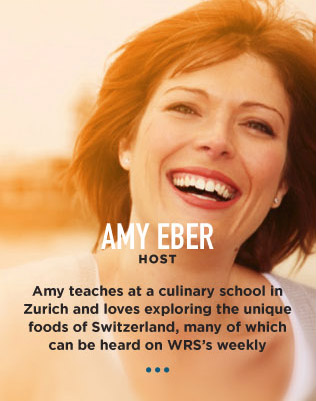
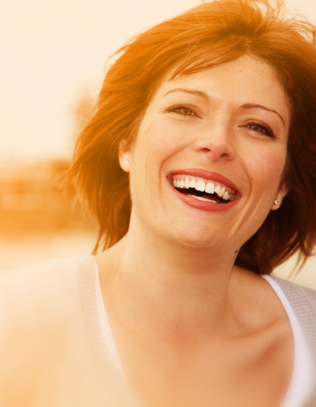
update programme page

diff --git a/Programme_05.css b/Programme_05.css
@@ -268,7 +268,7 @@ background-color:#FDF9B0;
 {
 float:left;
 text-decoration:none;
-margin-left:100px;
+margin-left:194px;
 
 }
 .sub-menu ul li
@@ -305,9 +305,9 @@ height:32px;
 {
 float:left;
 text-decoration:none;
-margin-left:100px;
-
+margin-left:194px;
 }
+
 .sub-menu1 ul li
 {
 display:block;
@@ -375,10 +375,11 @@ position:relative;
 float:left;
 width:310px;
 }
-.right-center-content
+.right-center-content img
 {
 float:right;
 width:310px;
+height:152px;
 }
 
 
@@ -1607,3 +1608,169 @@ color: #1f1f1f;
     -o-transition: all .3s linear;
     transition: all .3s linear;**/
   }
+
+/* Brahminder Singh */
+
+
+#upper {
+  border:red solid thin none;
+  width:944px;
+  height:500px
+}
+
+#text-food {
+ width:944px;
+ height:55px;
+ border:#000000 solid thin none;
+ font-family:GOTHAMbold;
+ font-size:30px;
+ margin-top:25px; 
+}
+
+#image-wrapper {
+  border:green solid thin none;
+  width:944px;
+  height:417px;
+}
+
+#image-left {
+  border:red solid thin none;
+  width:630px;
+  height:417px;
+  float:left;
+  position:relative;
+}
+
+#lft-i {
+  
+  width:630px;
+  height:410px;
+  margin-top:4px;
+  position:relative;
+}
+
+#lft-i img
+{
+ width:630px;
+  height:410px;
+  }
+  
+#on-image {
+  border:red solid thin none;
+  width:600px;
+  height:260px;
+  position:absolute;
+  top:130px;
+  left:17px;
+}
+
+#on-img-one {
+  border: thin solid blue none;
+    color: WHITE;
+    font-family: GOTHAMbold;
+    font-size: 50px;
+    height: 73px;
+    padding: 12px 0 0;
+    text-align: center;
+    width: 600px;
+} 
+
+#on-img-two {
+   border: thin solid blue none;
+    font-family: GOTHAMbold;
+    font-size: 18px;
+    height: 28px;
+    padding-top: 4px;
+    text-align: center;
+    width: 600px;
+	}
+
+#on-img-three {
+   border: thin solid blue none;
+    font-family: GOTHAMbook;
+    font-size: 20px;
+    font-weight: bold;
+    height: 24px;
+    padding-top: 6px;
+    text-align: center;
+    width: 600px;
+}   
+
+#on-img-four {
+   border: thin solid blue none;
+    color: red;
+    font-family: GOTHAMbook;
+    font-size: 16px;
+    font-weight: bold;
+    height: 40px;
+    padding-top: 6px;
+    text-align: center;
+    width: 600px;
+}   
+  
+#image-right {
+  border:red solid thin none;
+  width:298px;
+  height:417px;
+  float:right;
+}
+
+#rgt-i {
+ 
+  width:298px;
+  height:410px;
+  margin-top:4px;
+}
+
+#rgt-i img {
+  width:298px;
+  height:410px;
+}
+
+#on-r-img {
+ 
+  width:248px;
+  height:190px;
+  position:absolute;
+  top:550px;
+  right:228px;
+}
+
+#on-r-img-one {
+    color: white;
+    font-family: GOTHAMbook;
+    font-size: 29px;
+    height: 31px;
+    padding-top: 10px;
+    text-align: center;
+    width: 248px;
+	font-weight:bold;
+	}
+	
+	
+	
+	#on-r-img-two {
+    font-family: GOTHAMbook;
+    font-size: 16px;
+    height: 20px;
+    text-align: center;
+    width: 248px;
+	font-weight:bold;
+	}
+	
+#on-r-img-three {
+    font-family: GOTHAMbook;
+    font-size: 15px;
+    font-weight: bold;
+    margin-top: 5px;
+    text-align: center;
+}
+
+
+#on-r-img-four {
+   border: thin solid red;
+    height: 20px;
+    margin-left: 90px;
+    margin-top: 7px;
+    width: 48px;
+}

diff --git a/Programme_05.html b/Programme_05.html
@@ -92,15 +92,73 @@
 			</div>
   <div class="main-region">
     <div id="main-content">
-     <div class ="main">
-						 <div class ="left-main">
-							  <h1>FOOD SCOUT</h1>
-							  <img src="images/Food_06.jpg">
+    	<div id="upper">
+			<div id="text-food">
+			<h2>FOOD SCOUT</h2>
+			</div>
+									
+			<div id="image-wrapper">
+				<div id="image-left">
+					<div id="lft-i">
+					<img src="images/I_FoodScout.jpg"/>
+					</div>
+					
+					<div id="on-image">
+						<div id="on-img-one">
+						FOOD SCOUT
 						</div>
-								  <div class ="right-main">
-								  <img src="images/IV_FoodScout.jpg">
+						
+						<div id="on-img-two">
+						GOURMAND AMY EBER IS ON THE SWISS FOOD TRAIL
+						</div>
+						
+						<div id="on-img-three">
+						EVERY THURSDAY | 5:40 PM | THE WRAP
+						</div>
+						
+						<div id="on-img-four">
+						REPEATS FRIDAYS | 1:40 PM | THE MIX
+						</div>
+					</div>
+				</div>
+				
+				<div id="image-right">
+					<div id="rgt-i">
+					<img src="images/IV_FoodScout.jpg"/>
+					</div>
+					
+					<div id="on-r-img">
+						<div id="on-r-img-one">
+						AMY EBER
+						</div>
+						
+						<div id="on-r-img-two">
+						HOST
+						</div>
+						
+						<div id="on-r-img-three">
+						Amy Teaches at a culinary school min Zurich and loves exploring the unique foods in switzerland, many of which can be heard on WRS,s weekly
+						</div>
+						
+						<div id="on-r-img-four">
+							<div class="pager">
+								<span class="pager1">
+								<a href="#">1</a>
+								</span>
+								<span class="pager2">
+								<a href="#">2</a>
+								</span>
+								<span class="pager2">
+								<a href="#">3</a>
+								</span>
 							</div>
-	   </div>
+						</div>
+					</div>
+				</div>
+			</div>
+		
+		</div>
+		
 	    <div class="right-content3">
 							<div class="right-content31">
 							   <h2>BLOG FOOD COURT</h2>
